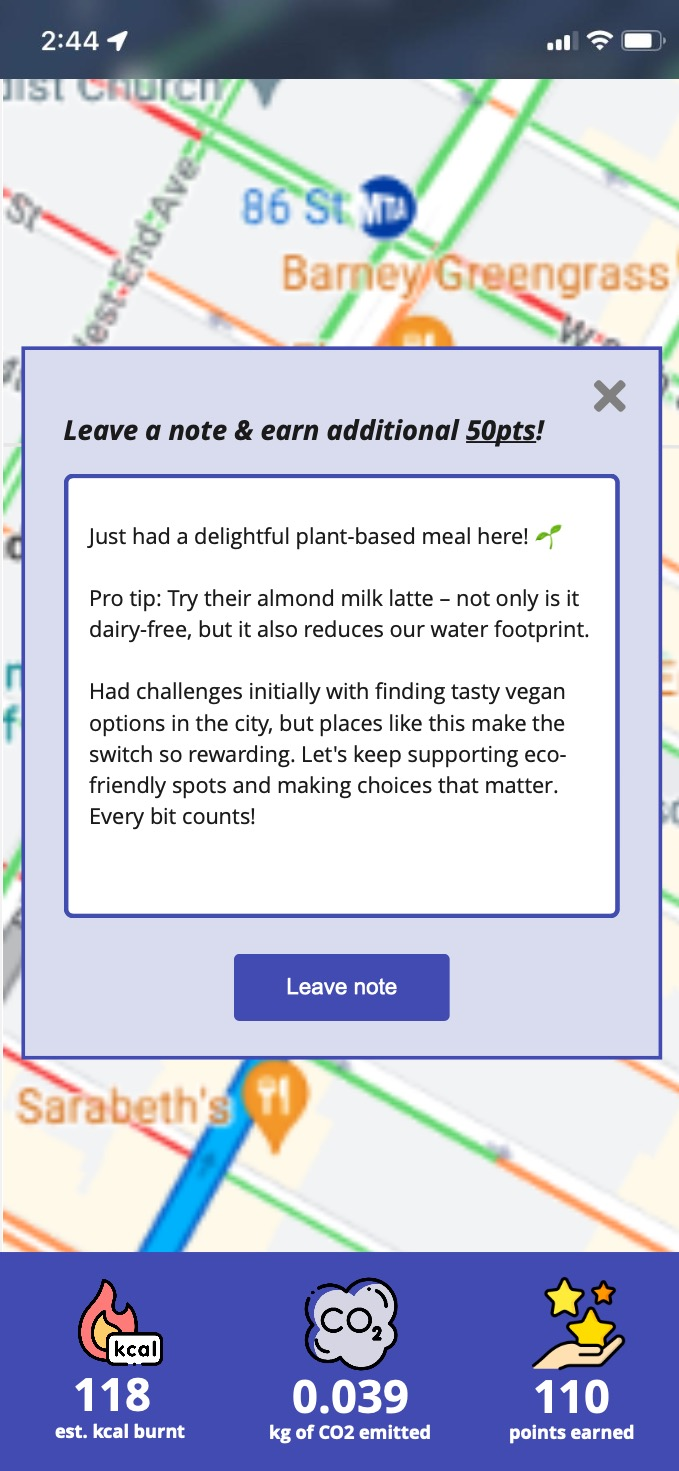
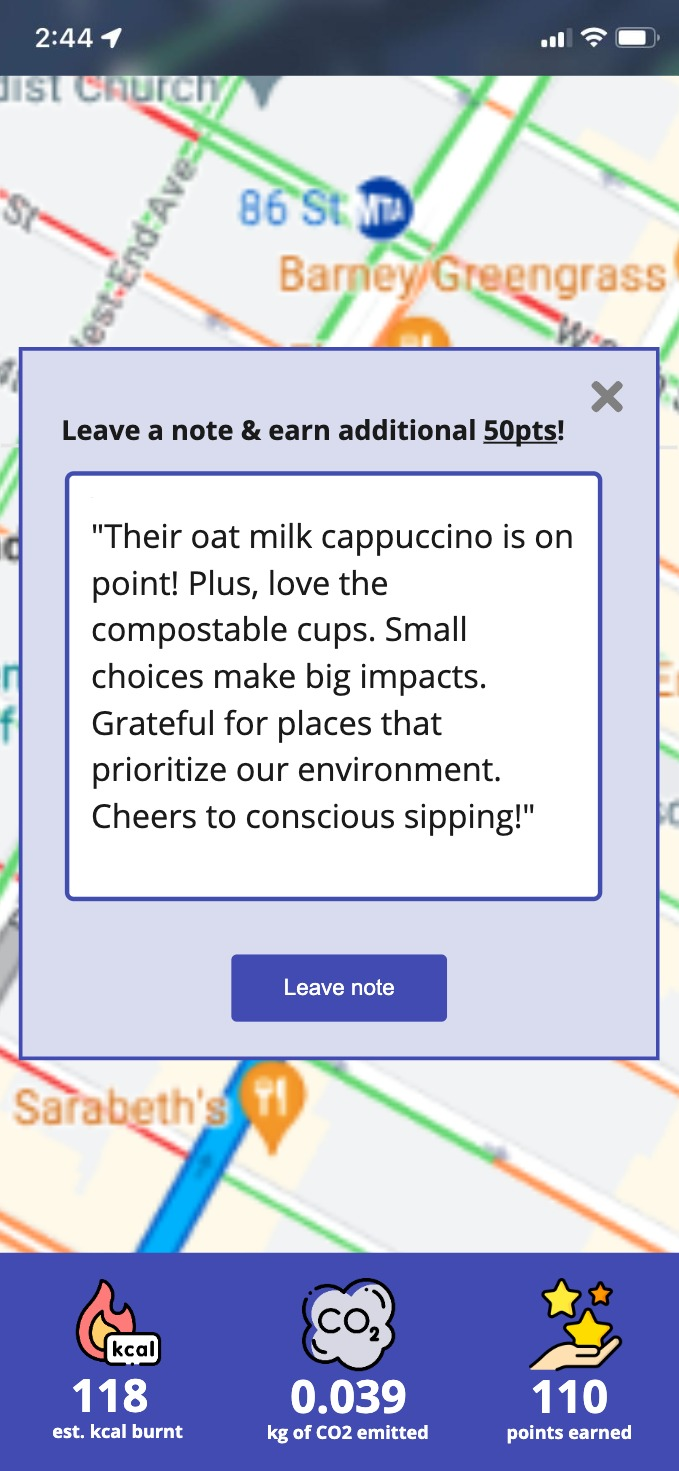
a

diff --git a/src/App.js b/src/App.js
@@ -12,6 +12,8 @@ import {
 
 function App() {
 
+  const BASE_URL = `http://192.168.1.68:5001`;
+
   const [upvoteCount, setUpvoteCount] = useState(5);
 
   const sendNote = () => {
@@ -19,11 +21,11 @@ function App() {
     // POST request to 10.0.0.202:5001/send_note
     console.log('send note');
 
-    const text = `Just had a delightful plant-based meal here! Pro tip: Try their almond milk latte! not only is it dairy-free, but it also reduces our water footprint. Had challenges initially with finding tasty vegan options in the city, but places like this make the switch so rewarding. Let us keep supporting eco-friendly spots and making choices that matter. Every bit counts!`
-
+    const text = `Their oat milk cappuccino is on point! Plus, love the compostable cups. Small choices make big impacts. Grateful for places that prioritize our environment. Cheers to conscious sipping!`
+    
     const location = '86th Street';
 
-    const url = "http://10.0.0.202:5001/leave_note"; // Make sure to use the correct protocol (http or https) if needed
+    const url = `${BASE_URL}/leave_note`; // Make sure to use the correct protocol (http or https) if needed
     const data = {
       text: text,
       location: location,
@@ -53,11 +55,11 @@ function App() {
     setUpvoteCount(6);
 
     // POST request to 10.0.0.202:5001/upvote (params: location, text)
-    const text = `Just had a delightful plant-based meal here! Pro tip: Try their almond milk latte! not only is it dairy-free, but it also reduces our water footprint. Had challenges initially with finding tasty vegan options in the city, but places like this make the switch so rewarding. Let us keep supporting eco-friendly spots and making choices that matter. Every bit counts!`
+    const text = `Their oat milk cappuccino is on point! Plus, love the compostable cups. Small choices make big impacts. Grateful for places that prioritize our environment. Cheers to conscious sipping!`
 
     const location = '86th Street';
 
-    const url = "http://10.0.0.202:5001/upvote"; // Make sure to use the correct protocol (http or https) if needed
+    const url = `${BASE_URL}/upvote`; // Make sure to use the correct protocol (http or https) if needed
     const data = {
       text: text,
       location: location,
@@ -84,7 +86,7 @@ function App() {
     console.log('redeem');
 
     // POST request to 10.0.0.202:5001/redeem (params: points, user) 
-    const url = "http://10.0.0.202:5001/redeem_points"; // Make sure to use the correct protocol (http or https) if needed
+    const url = `${BASE_URL}/redeem_points`; // Make sure to use the correct protocol (http or https) if needed
     const data = {
       points: 25000,
       user: 'bevepebbles.near'
@@ -113,12 +115,12 @@ function App() {
         <Routes>
 
           <Route path="/send_note" element={<>
-            <img src={sendNoteImage} width={300} />
+            <img src={sendNoteImage} width={300} alt="abc" />
             <button style={{ position: 'absolute', top: '350px', left: '100px', width: '100px', height: '200px', opacity: 0 }} onClick={sendNote}>Hi</button>
           </>} />
 
           <Route path="/upvote" element={<>
-            <img src={upvoteCount == 5 ? upvoteImage : upvotedImage} width={300} />
+            <img src={upvoteCount === 5 ? upvoteImage : upvotedImage} width={300} />
             <button style={{ position: 'absolute', top: '350px', left: '200px', width: '100px', height: '200px', opacity: 0 }} onClick={upvote}>Hi</button>
           </>} />
 
